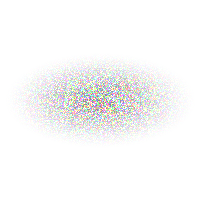
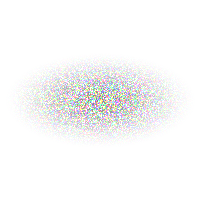
Beyond the Horizon: Final quest logic

Changed region(s): [[0.15, 0.3, 0.87, 0.69]]

diff --git a/pyweek20/src/thing.py b/pyweek20/src/thing.py
@@ -11,7 +11,7 @@ def add(thing):
 	things[thing.thingid] = thing
 	return thing.thingid
 def get(thingid):
-	return things[thingid]
+	return things.get(thingid, None)
 def kill(thing):
 	if thing.thingid in things:
 		del things[thing.thingid]
@@ -100,6 +100,15 @@ class DiesAtCore(Component):
 	def think(self, dt):
 		if self.y <= state.Rcore:
 			self.die()
+
+class WinsAtCore(Component):
+	def think(self, dt):
+		from src import quest, scene
+		if self.y <= state.Rcore and quest.quests["Finale"].done:
+			from src.scenes import finalcutscene
+			scene.current = finalcutscene
+			scene.toinit = finalcutscene
+			quest.quests["Finale"].winner = self.__class__.__name__
 
 class HasVelocity(Component):
 	def init(self, vx = 0, vy = 0, **kwargs):
@@ -347,10 +356,11 @@ class DrawSlash(Component):
 		while self.imgs and self.t - self.imgs[0][3] > self.timg:
 			self.imgs.pop(0)
 		while len(self.imgs) < self.nimgs:
-			st = self.timg / 2
+			t0 = (self.nimgs - len(self.imgs) - 1) * self.timg / self.nimgs
+			st = t0 + self.timg / 2
 			X = random.gauss(self.X + self.vx * st / self.y, 2 / self.y)
 			y = random.gauss(self.y + self.vy * st, 2)
-			t = self.t - (self.nimgs - len(self.imgs) - 1) * self.timg / self.nimgs
+			t = self.t - t0
 			self.imgs.append((X, y, random.uniform(0, 360), t))
 	def draw(self):
 		for X, y, angle, t in self.imgs:
@@ -360,7 +370,7 @@ class DrawSlash(Component):
 			if not 0 < t < 1:
 				continue
 			alpha = t * (1 - t)
-			image.worlddraw("slash", X, y, 6, angle = angle, alpha = alpha)
+			image.worlddraw("slash-red", X, y, 6, angle = angle, alpha = alpha)
 
 class DrawRung(Component):
 	def __init__(self):
@@ -378,14 +388,17 @@ class DrawRung(Component):
 			X = random.gauss(self.X + self.vx * st / self.y, 10 / self.y)
 			y = random.gauss(self.y + self.vy * st, 10)
 			t = self.t - (self.nimgs - len(self.imgs) - 1) * self.timg / self.nimgs
-			self.imgs.append((X, y, random.uniform(0, 360), t))
+			color = random.choice(["gray", "black"])
+			self.imgs.append((X, y, random.uniform(0, 360), t, color))
 	def draw(self):
-		for X, y, angle, t in self.imgs:
+		for X, y, angle, t, color in self.imgs:
+			if not state.Rcore + 14 < y < state.R - 14:
+				continue
 			t = (self.t - t) / self.timg
 			if not 0 < t < 1:
 				continue
 			alpha = t * (1 - t)
-			image.worlddraw("slash", X, y, 16, angle = angle, alpha = alpha)
+			image.worlddraw("slash-" + color, X, y, 16, angle = angle, alpha = alpha)
 
 # Whether the object is important to the plot, and should not be discarded if it's offscreen.
 class HasSignificance(Component):
@@ -672,7 +685,6 @@ class DrawBubbleChain(Component):
 			state.effects.append(Bubble(X = X, y = y))
 	def draw(self):
 		pass
-#		image.worlddraw("chain", self.X, self.y, 3)
 
 class DrawTeleport(Component):
 	def init(self, targetid, **kwargs):
@@ -719,6 +731,7 @@ class BatesShip(WorldThing):
 @EmptyDrawHUD()
 @HasSignificance()
 @DiesAtCore()
+@WinsAtCore()
 @LeavesCorpse()
 class Ship(WorldThing):
 	pass
@@ -935,6 +948,7 @@ class FirstConvergence(WorldThing):
 	pass
 
 @Lifetime(1)
+@DiesAtCore()
 @DrawBubble()
 class Bubble(WorldThing):
 	pass

diff --git a/pyweek20/src/quest.py b/pyweek20/src/quest.py
@@ -91,10 +91,10 @@ class Act1(Quest):
 	def __init__(self):
 		Quest.__init__(self)
 		self.goals = []
+		self.distressed = False
 	def think(self, dt):
 		if self.done or not self.available:
 			return
-		# TODO: play distress call (convo6)
 		self.t += dt
 		if self.progress == 0 and self.t > 1:
 			dialog.play("convo2")
@@ -122,7 +122,8 @@ class Act1(Quest):
 				self.progress = 5
 				self.done = True
 				quests["Act2"].setup()
-				# TODO: stop playing distress call
+		if not self.distressed and state.you.y < 270:
+			dialog.play("distress")
 
 
 class Act2(Quest):
@@ -174,13 +175,52 @@ class Seek(Quest):
 			thing.Convergence(X = X, y = y)
 			for X, y in state.worlddata["convergences"]
 		]
+		self.chooserandomgoal()
+		self.chooserandomgoal()
+		self.tquiet = 0
+		self.cindices = { convergence.thingid: j for j, convergence in enumerate(state.convergences) }
+	def chooserandomgoal(self):
+		candidates = [convergence for convergence in state.convergences if convergence not in state.goals]
+		if candidates:
+			state.goals.append(random.choice(candidates))
 	def think(self, dt):
 		if self.done or not self.available:
 			return
 		self.t += dt
 		nvis = sum(convergence.isvisible() for convergence in state.convergences)
 		if nvis > self.progress:
+			self.chooserandomgoal()
 			self.updateprogress(nvis)
+			if self.progress == 1:
+				dialog.play("convo13")
+			self.tquiet = 0
+		if dialog.queue or dialog.currentline:
+			self.tquiet = 0
+		else:
+			self.tquiet += dt
+
+
+		if self.progress == 0 and self.tquiet > 10:
+			dialog.play("convo11")
+		if self.progress >= 1 and self.tquiet > 11:
+			dialog.play("convo12")
+		if self.progress >= 2 and self.tquiet > 12:
+			dialog.play("echo1")
+		if self.progress >= 3 and self.tquiet > 13:
+			dialog.play("echo2")
+		if self.progress >= 3 and self.tquiet > 60:
+			dialog.play("echo3")
+			dialog.play("echo4")
+		if self.progress >= 4 and self.tquiet > 15:
+			dialog.play("echo5")
+		if self.progress >= 5 and self.tquiet > 16 and "convo14" in dialog.played:
+			dialog.play("convo15")
+			quests["Finale"].setup()
+		
+		if state.you.y - state.Rcore < 30 and self.tquiet > 10:
+			dialog.play("convo14")
+
+
 	def updateprogress(self, nprogress):
 		self.progress = nprogress
 		if nprogress == 1:
@@ -244,7 +284,24 @@ class Seek(Quest):
 				"HeavyWarpSkiff": 600,
 			}
 			hud.show("Armored Survey Cutter unlocked", 5)
+		elif nprogress >= 9:
+			hud.show("Nothing else to unlock. Proceed to the data horizon.", 10)
 
+class Finale(Quest):
+	def setup(self):
+		self.available = True
+	def think(self, dt):
+		if self.done or not self.available:
+			return
+		self.t += dt
+		n = sum(beacon.y - state.Rcore < 20 for beacon in state.beacons)
+		if n > self.progress:
+			self.progress = n
+			if n >= settings.beaconsforfinale:
+				hud.draw("Beacon placement: %d/%d" % (n, settings.beaconsforfinale), 5)
+			else:
+				hud.draw("Beacon placement complete. Proceed through data horizon.", 6)
+				self.done = True
 
 def think(dt):
 	for quest in quests.values():

diff --git a/pyweek20/src/scenes/play.py b/pyweek20/src/scenes/play.py
@@ -1,7 +1,7 @@
 from __future__ import division
 import pygame, math, random, time
 from pygame.locals import *
-from src import window, thing, settings, state, hud, quest, background, dialog, sound, image
+from src import window, thing, settings, state, hud, quest, background, dialog, sound, image, ptext
 from src.window import F
 
 
@@ -20,10 +20,11 @@ def init():
 	state.mother = thing.Mother(X = 0, y = state.R + 8)
 	state.objs = [state.mother]
 #	state.filaments = [thing.Filament(ladderps = state.worlddata["filaments"][0])]
-	state.hazards = [
-		thing.Slash(X = random.uniform(0, math.tau), y = random.uniform(state.Rcore, state.R))
-		for _ in range(500)
-	]
+	state.hazards = []
+	for _ in range(500):
+		X = random.uniform(0, math.tau)
+		y = math.sqrt(random.uniform(state.Rcore ** 2, state.R ** 2))
+		state.hazards.append(thing.Slash(X = X, y = y))
 	for filament in state.worlddata["filaments"]:
 		for j in range(len(filament) - 1):
 			X0, y0 = filament[j]
@@ -326,6 +327,11 @@ def draw():
 	hud.draw()
 	hud.drawstats()
 	state.you.drawhud()
+	dy = state.you.y - state.Rcore
+	if dy < 36:
+		alpha = pygame.time.get_ticks() * 0.001 % 1
+		ptext.draw("Warning: Approaching data horizon", midtop = F(854/2, 100), color = "#FF7777",
+			owidth = 1, fontsize = F(36), fontname = "NovaSquare", alpha = alpha)
 	background.drawwash()
 
 

diff --git a/pyweek20/scripts/images.py b/pyweek20/scripts/images.py
@@ -44,7 +44,7 @@ for px in range(s):
 		c = 200
 		p = min(math.sqrt((x - x0) ** 2 + (y - y0) ** 2) for x0 in (-1, 1) for y0 in (-1, 1))
 		a = min(max(int(300 * (p - 1)), 0), 255)
-		simg.set_at((px, py), (c, 0, 0, a))
+		simg.set_at((px, py), (c, c, c, a))
 
 		c = 100
 		a = int(min(10 + 10 * math.exp(3 * (r - 1)), 10 * math.exp(-20 * (r - 1))))
@@ -77,6 +77,26 @@ for cname, r, g, b in colors:
 	arr[:,:,2] *= b
 	del arr
 	pygame.image.save(img, "data/img/tremor-%s.png" % cname)
+
+colors = [
+	("white", 1, 1, 1),
+	("red", 1, 0, 0),
+	("green", 0, 1, 0),
+	("blue", 0, 0, 1),
+	("yellow", 0.8, 0.8, 0),
+	("purple", 0.8, 0, 0.8),
+	("orange", 0.8, 0.4, 0),
+	("gray", 0.4, 0.4, 0.4),
+	("black", 0, 0, 0),
+]
+for cname, r, g, b in colors:
+	img = simg.copy()
+	arr = pygame.surfarray.pixels3d(img)
+	arr[:,:,0] *= r
+	arr[:,:,1] *= g
+	arr[:,:,2] *= b
+	del arr
+	pygame.image.save(img, "data/img/slash-%s.png" % cname)
 
 
 

diff --git a/pyweek20/src/settings.py b/pyweek20/src/settings.py
@@ -17,7 +17,7 @@ minfps = 6
 drawbackground = True
 
 DEBUG = True
-autosave = False
+autosave = True  # Save the game when it's closed.
 savename = "data/savegame.json"
 
 
@@ -33,6 +33,7 @@ rqteleport = 50
 twarpinvulnerability = 3
 thurtinvulnerability = 1
 tcutsceneinvulnerability = 5
+beaconsforfinale = 10
 
 musiccrossfadetime = 1
 
